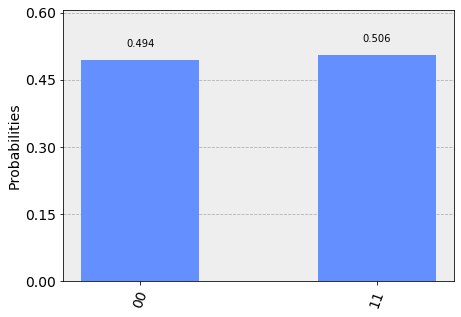
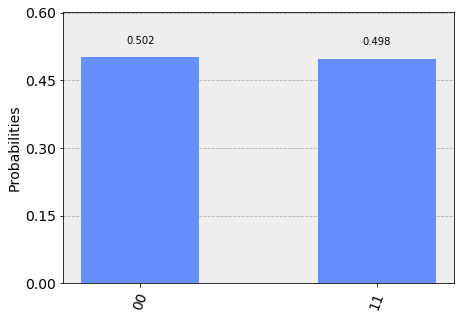
Automated documentation update from meta-qiskit
Commit: 788192271bb4ec1ffc8c747f9a6f4cb60fc639fd

Travis build: https://travis-ci.com/Qiskit/qiskit/builds/133430497

diff --git a/documentation/getting_started.html b/documentation/getting_started.html
@@ -1366,7 +1366,7 @@ subsequent sections:</p>
 </pre></div>
 </div>
 <div class="highlight-default notranslate"><div class="highlight"><pre><span></span>
-<span class="n">Total</span> <span class="n">count</span> <span class="k">for</span> <span class="mi">00</span> <span class="ow">and</span> <span class="mi">11</span> <span class="n">are</span><span class="p">:</span> <span class="p">{</span><span class="s1">&#39;00&#39;</span><span class="p">:</span> <span class="mi">523</span><span class="p">,</span> <span class="s1">&#39;11&#39;</span><span class="p">:</span> <span class="mi">477</span><span class="p">}</span>
+<span class="n">Total</span> <span class="n">count</span> <span class="k">for</span> <span class="mi">00</span> <span class="ow">and</span> <span class="mi">11</span> <span class="n">are</span><span class="p">:</span> <span class="p">{</span><span class="s1">&#39;00&#39;</span><span class="p">:</span> <span class="mi">468</span><span class="p">,</span> <span class="s1">&#39;11&#39;</span><span class="p">:</span> <span class="mi">532</span><span class="p">}</span>
 </pre></div>
 </div>
 <pre style="word-wrap: normal;white-space: pre;background: #fff0;line-height: 1.1;font-family: &quot;Courier New&quot;,Courier,monospace">        ┌───┐     ┌─┐   
@@ -1512,7 +1512,7 @@ circuit will yield either the bit string 00 or 11.</p>
 </pre></div>
 </div>
 <div class="highlight-default notranslate"><div class="highlight"><pre><span></span>
-<span class="n">Total</span> <span class="n">count</span> <span class="k">for</span> <span class="mi">00</span> <span class="ow">and</span> <span class="mi">11</span> <span class="n">are</span><span class="p">:</span> <span class="p">{</span><span class="s1">&#39;00&#39;</span><span class="p">:</span> <span class="mi">495</span><span class="p">,</span> <span class="s1">&#39;11&#39;</span><span class="p">:</span> <span class="mi">505</span><span class="p">}</span>
+<span class="n">Total</span> <span class="n">count</span> <span class="k">for</span> <span class="mi">00</span> <span class="ow">and</span> <span class="mi">11</span> <span class="n">are</span><span class="p">:</span> <span class="p">{</span><span class="s1">&#39;00&#39;</span><span class="p">:</span> <span class="mi">506</span><span class="p">,</span> <span class="s1">&#39;11&#39;</span><span class="p">:</span> <span class="mi">494</span><span class="p">}</span>
 </pre></div>
 </div>
 </div>
